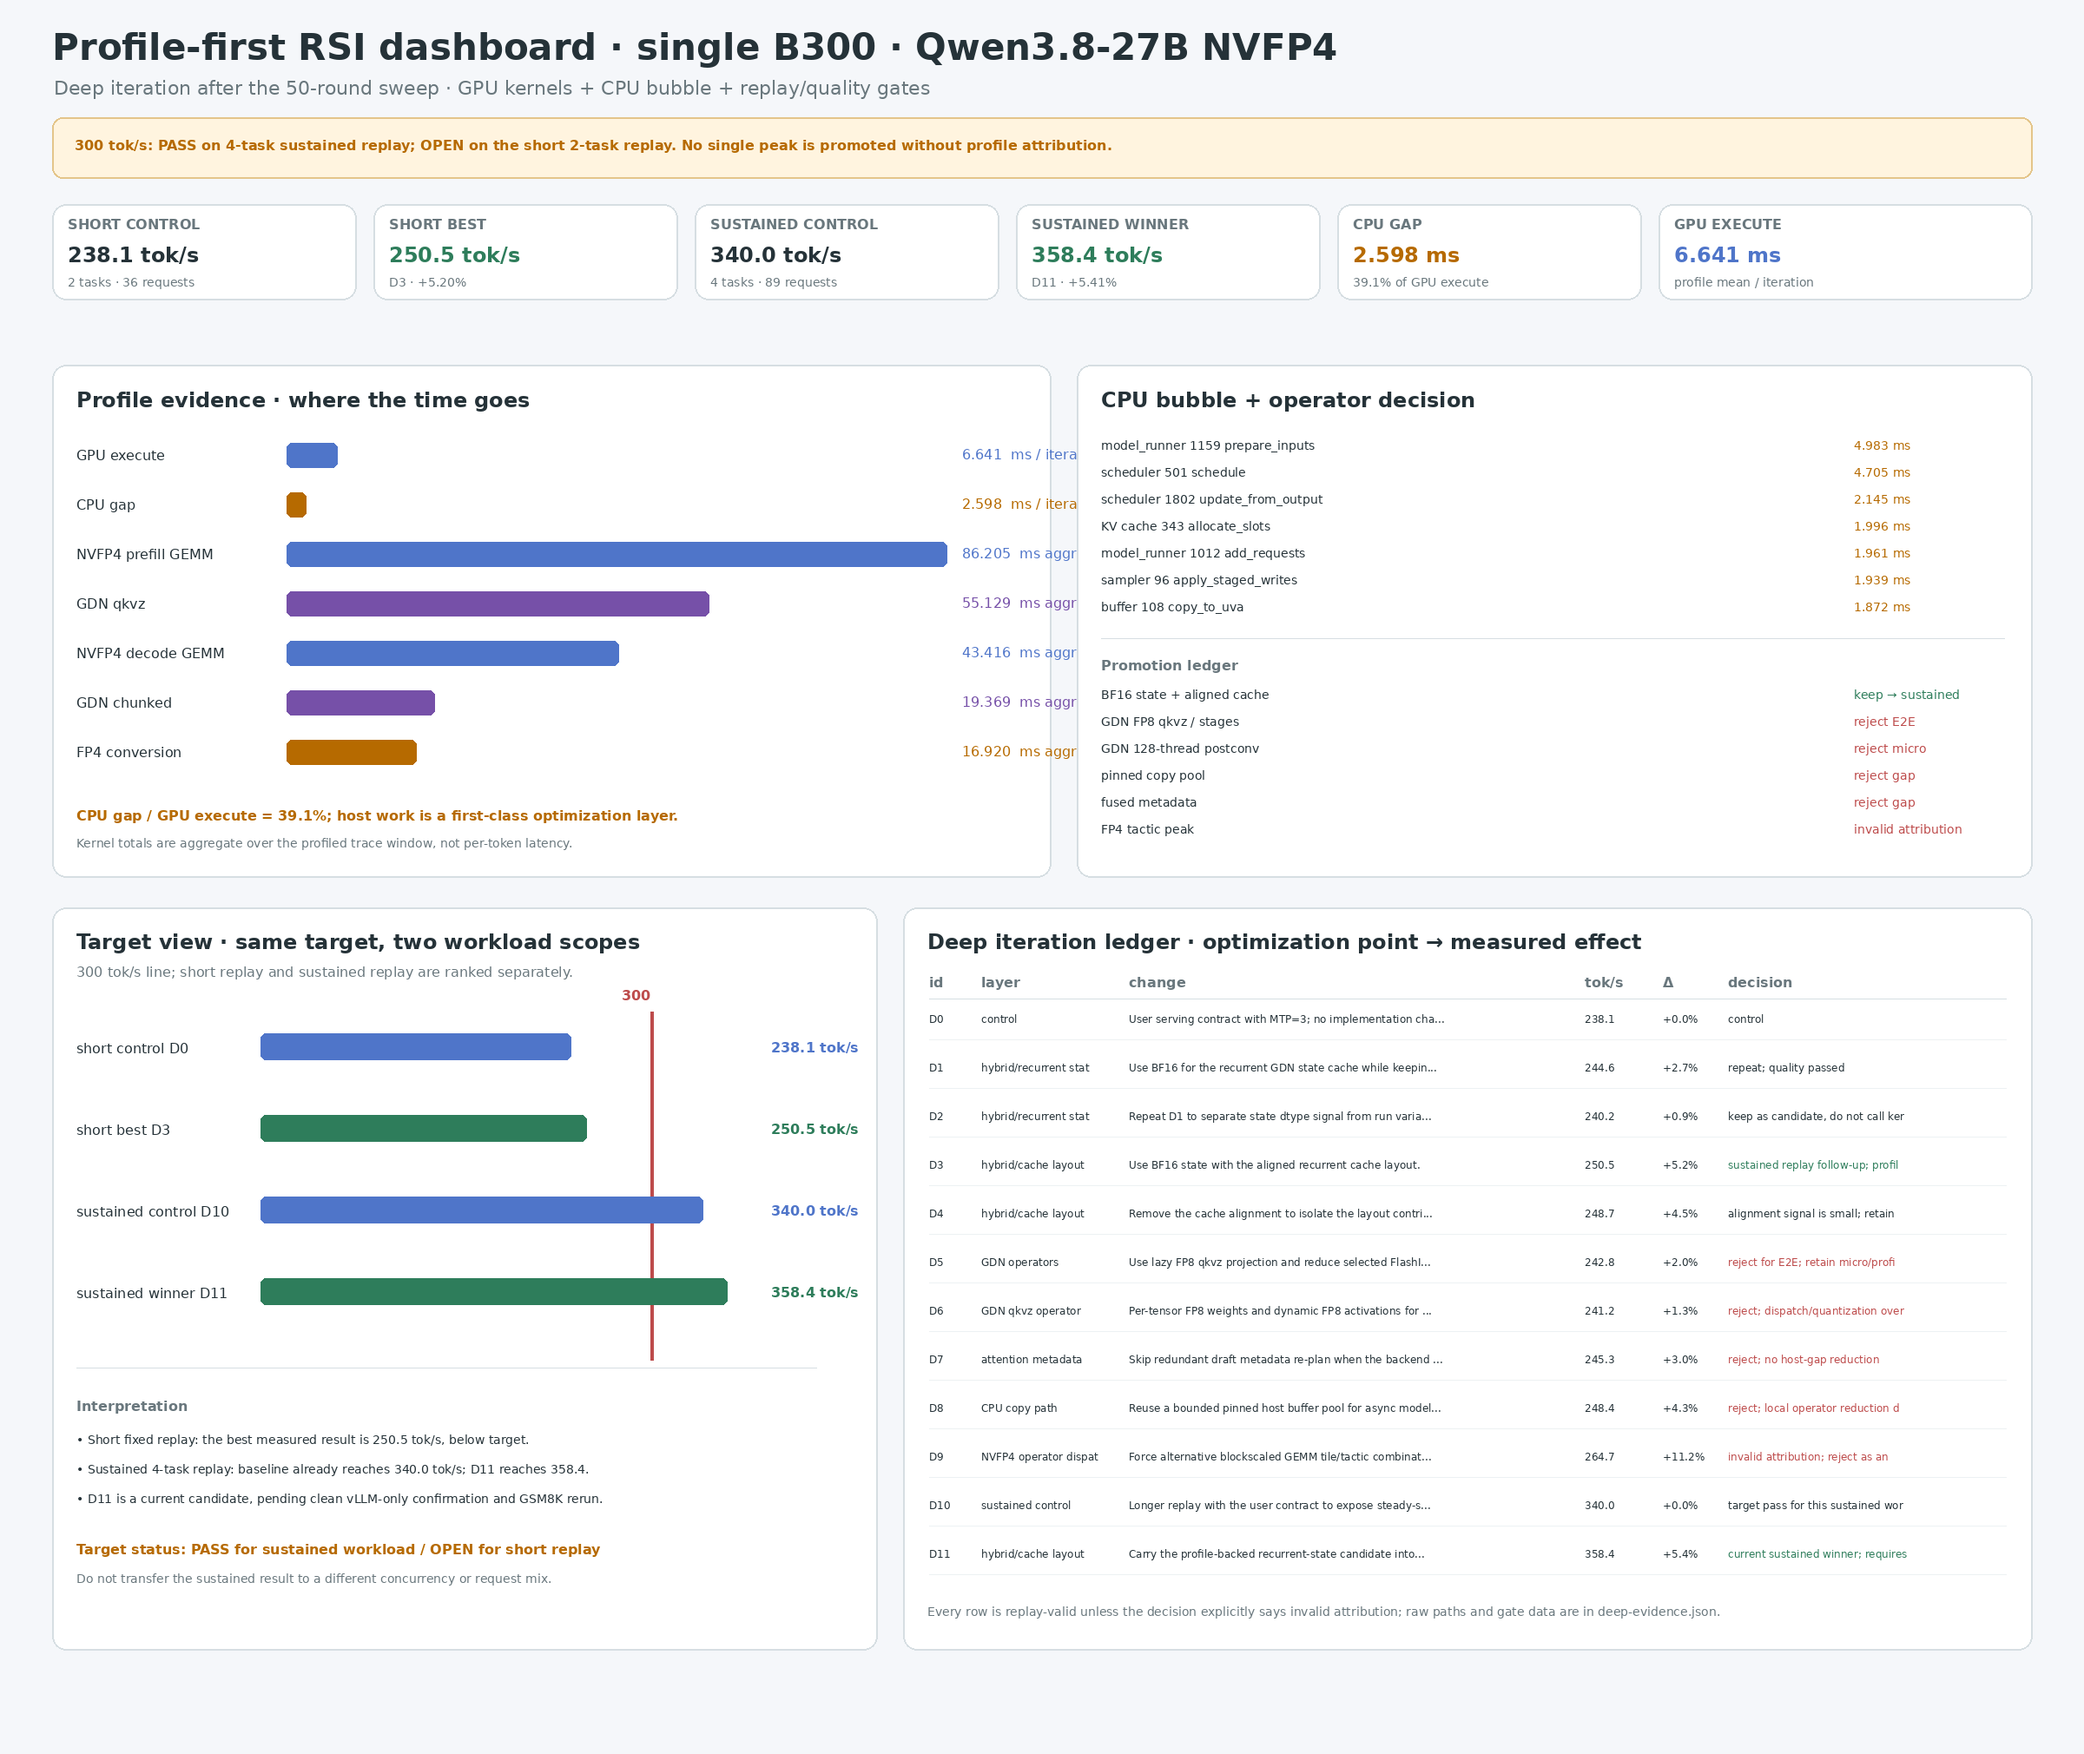
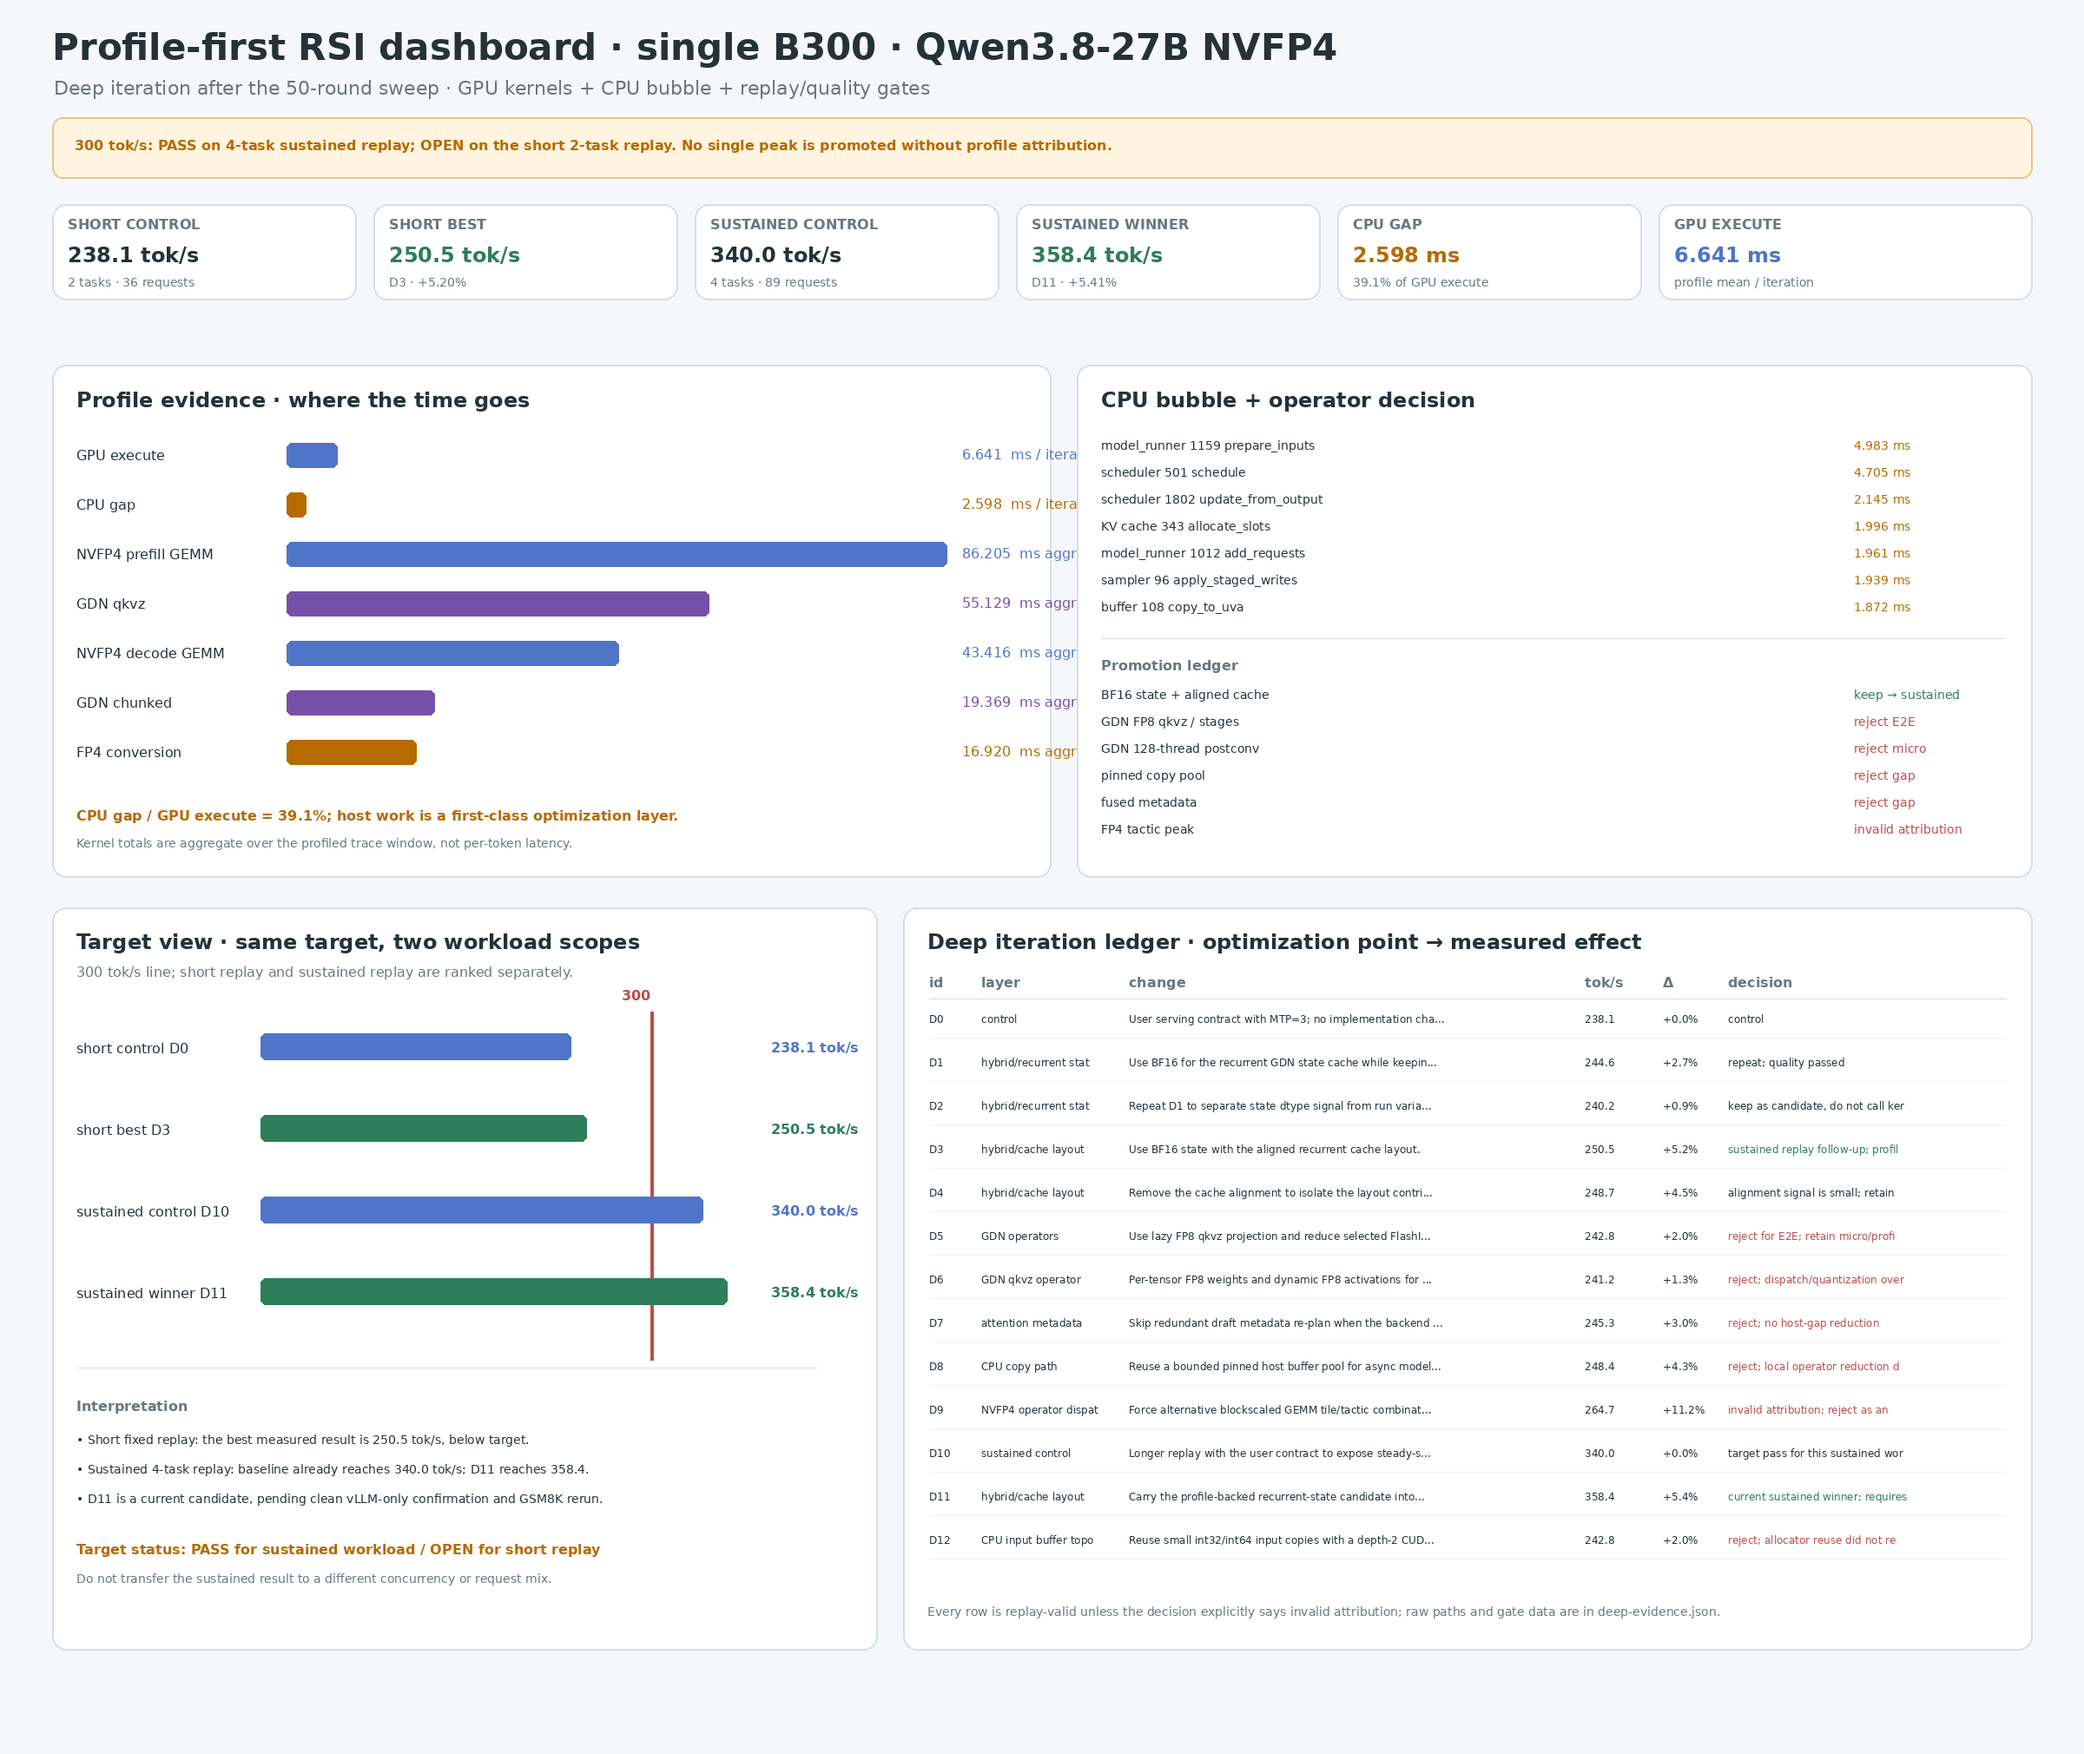
perf(rsi): record input buffer profile rejection

Changed region(s): [[0.4688, 0.5926, 0.6875, 0.9045], [0.8125, 0.5926, 0.9062, 0.9045], [0.4688, 0.8421, 0.5, 0.9045]]

diff --git a/tools/experimental_input_copy_pool_sitecustomize/sitecustomize.py b/tools/experimental_input_copy_pool_sitecustomize/sitecustomize.py
@@ -1,0 +1,122 @@
+#!/usr/bin/env python3
+# SPDX-License-Identifier: Apache-2.0
+# SPDX-FileCopyrightText: Copyright contributors to the AgentInfer project
+
+"""Opt-in ring buffers for small model-runner CPU-to-GPU input copies.
+
+The normal helper allocates a GPU output tensor whenever ``out`` is omitted.
+This probe reuses both the pinned host staging tensor and the GPU destination
+for small one-dimensional index inputs.  A CUDA event guards reuse; if a ring
+slot is still in flight, the original vLLM helper is used for that call.
+"""
+
+from __future__ import annotations
+
+import atexit
+import json
+import os
+import threading
+from collections import defaultdict
+from pathlib import Path
+from typing import Any
+
+import torch
+
+
+_DEPTH = int(os.environ.get("AGENTINFER_INPUT_COPY_POOL", "0"))
+_MAX_ELEMENTS = int(os.environ.get("AGENTINFER_INPUT_COPY_POOL_MAX_ELEMENTS", "4096"))
+_LOG_PATH = os.environ.get("AGENTINFER_INPUT_COPY_POOL_LOG", "")
+_ORIGINAL: Any = None
+_LOCK = threading.Lock()
+_POOLS: dict[tuple[str, tuple[int, ...], torch.dtype], list[dict[str, Any]]] = {}
+_NEXT: defaultdict[tuple[str, tuple[int, ...], torch.dtype], int] = defaultdict(int)
+_STATS = {"calls": 0, "reused": 0, "allocated": 0, "in_flight_fallback": 0, "shape_fallback": 0}
+
+
+def _write_stats() -> None:
+    if not _LOG_PATH:
+        return
+    path = Path(_LOG_PATH)
+    path.parent.mkdir(parents=True, exist_ok=True)
+    with _LOCK:
+        payload = {"pid": os.getpid(), "depth": _DEPTH, "max_elements": _MAX_ELEMENTS, **_STATS}
+    with path.open("a", encoding="utf-8") as stream:
+        stream.write(json.dumps(payload, sort_keys=True) + "\n")
+
+
+def _supported(source: torch.Tensor, device: torch.device | None) -> bool:
+    return (
+        device is not None
+        and device.type == "cuda"
+        and source.device.type == "cpu"
+        and source.ndim == 1
+        and source.numel() <= _MAX_ELEMENTS
+        and source.dtype in (torch.int32, torch.int64)
+    )
+
+
+def _copy_to_gpu(
+    x: torch.Tensor | Any,
+    out: torch.Tensor | None = None,
+    device: torch.device | None = None,
+) -> torch.Tensor:
+    assert _ORIGINAL is not None
+    if _DEPTH <= 0 or out is not None:
+        return _ORIGINAL(x, out=out, device=device)
+    try:
+        source = torch.from_numpy(x) if not isinstance(x, torch.Tensor) else x
+    except (TypeError, ValueError):
+        return _ORIGINAL(x, out=out, device=device)
+    with _LOCK:
+        _STATS["calls"] += 1
+        should_flush = _STATS["calls"] % 64 == 0
+    if should_flush:
+        _write_stats()
+    if not _supported(source, device):
+        with _LOCK:
+            _STATS["shape_fallback"] += 1
+        return _ORIGINAL(x, out=out, device=device)
+
+    key = (str(device), tuple(int(item) for item in source.shape), source.dtype)
+    with _LOCK:
+        pool = _POOLS.get(key)
+        if pool is None:
+            pool = []
+            _POOLS[key] = pool
+        index = _NEXT[key] % _DEPTH
+        _NEXT[key] += 1
+        if len(pool) < _DEPTH:
+            pool.append(
+                {
+                    "host": torch.empty_like(source, pin_memory=True),
+                    "device": torch.empty_like(source, device=device),
+                    "event": torch.cuda.Event(blocking=False),
+                }
+            )
+            _STATS["allocated"] += 1
+        slot = pool[index]
+
+    if slot["event"].query() is False:
+        with _LOCK:
+            _STATS["in_flight_fallback"] += 1
+        return _ORIGINAL(x, out=out, device=device)
+    slot["host"].copy_(source)
+    slot["device"].copy_(slot["host"], non_blocking=True)
+    slot["event"].record()
+    with _LOCK:
+        _STATS["reused"] += 1
+    return slot["device"]
+
+
+if _DEPTH > 0:
+    from vllm.v1.worker.gpu import buffer_utils
+
+    _ORIGINAL = buffer_utils.async_copy_to_gpu
+    buffer_utils.async_copy_to_gpu = _copy_to_gpu
+    try:
+        from vllm.v1.worker.gpu import model_runner
+    except ImportError:
+        model_runner = None
+    if model_runner is not None:
+        model_runner.async_copy_to_gpu = _copy_to_gpu
+    atexit.register(_write_stats)

diff --git a/tools/render_single_nvfp4_deep_dashboard.py b/tools/render_single_nvfp4_deep_dashboard.py
@@ -220,7 +220,7 @@ def _draw_round_table(draw: ImageDraw.ImageDraw, data: dict[str, Any]) -> None:
     rows = data["iterations"]
     base_by_tasks = {2: next(row["output_tok_s"] for row in rows if row["id"] == "D0"), 4: next(row["output_tok_s"] for row in rows if row["id"] == "D10")}
     for index, row in enumerate(rows):
-        y = y0 + 44 + index * 56
+        y = y0 + 44 + index * 50
         base = base_by_tasks[int(row["tasks"])]
         delta = (float(row["output_tok_s"]) / base - 1) * 100
         layer = str(row["layer"]).replace("hybrid model / ", "hybrid/")
@@ -234,7 +234,7 @@ def _draw_round_table(draw: ImageDraw.ImageDraw, data: dict[str, Any]) -> None:
         for value, (_, width) in zip(values, headers, strict=True):
             _text(draw, (x, y), str(value), MICRO, color if value == decision[:34] else INK)
             x += width
-        draw.line((x0, y + 31, 2310, y + 31), fill="#edf1f3", width=1)
+        draw.line((x0, y + 29, 2310, y + 29), fill="#edf1f3", width=1)
     _text(draw, (1068, 1848), "Every row is replay-valid unless the decision explicitly says invalid attribution; raw paths and gate data are in deep-evidence.json.", TINY, MUTED)
 
 

diff --git a/docs/rsi/qwen38-single-nvfp4-deep-results.md b/docs/rsi/qwen38-single-nvfp4-deep-results.md
@@ -13,6 +13,7 @@
 - GDN prefill stage probe：[experimental_gdn_prefill_stages.py](../../tools/experimental_gdn_prefill_stages.py)
 - FP4 shape microbenchmark：[experimental_fp4_runner_probe.py](../../tools/experimental_fp4_runner_probe.py)
 - FlashInfer metadata probe：[experimental_fused_flashinfer.py](../../tools/experimental_fused_flashinfer.py)
+- CPU input-copy ring probe：[experimental_input_copy_pool_sitecustomize/sitecustomize.py](../../tools/experimental_input_copy_pool_sitecustomize/sitecustomize.py)
 
 ## 先给结论
 
@@ -47,6 +48,8 @@ Profile 文件来自 MTP3、client concurrency 8、CUDA graph serving path，并
 
 Pinned buffer pool 的对照实验把 `aten::pin_memory` aggregate 从约 0.641 ms 降到 0.239 ms，但 Python copy path 增加，CPU gap 从约 2.598 ms 变成约 2.605 ms，E2E 没有形成可靠收益。因此下一步应优化 copy 的调用拓扑和 metadata 生命周期，不能只替换 pin allocator。
 
+D12 进一步复用了 GPU output 和 pinned host source：worker 实际命中约 7,936 次 copy、分配 11 个 ring slot，说明实验确实进入了 worker path；但 GPU execute 约 6.609 ms、CPU gap 约 2.602 ms，E2E 两次为 246.863 和 242.827 tok/s。它同时没有缩短 host bubble，也没有改善 replay throughput，因此 reject。
+
 ### Operator hotspots
 
 | Layer / operator group | Profile aggregate | 当前判断 |
@@ -64,7 +67,7 @@ Pinned buffer pool 的对照实验把 `aten::pin_memory` aggregate 从约 0.641 
 
 ## 每轮优化点与效果
 
-以下是这轮深度迭代的完整台账。`short replay` 统一指 2 tasks/36 requests；最后两轮改用 4 tasks/89 requests 来测持续 batching，delta 只和同 workload 的 control 比较。
+以下是这轮深度迭代的完整台账。D0–D9 和 D12 是 2 tasks/36 requests 的 short replay；D10/D11 改用 4 tasks/89 requests 测持续 batching，delta 只和同 workload 的 control 比较。
 
 | Round | Layer | Optimization point | Output tok/s | Acceptance | Effect / decision |
 | --- | --- | --- | ---: | ---: | --- |
@@ -80,6 +83,7 @@ Pinned buffer pool 的对照实验把 `aten::pin_memory` aggregate 从约 0.641 
 | D9 | NVFP4 dispatch | force alternative FP4 tactics | 264.689 | 4.261 | acceptance 和 kernel profile 同时变化，归因无效，reject |
 | D10 | sustained control | MTP3 baseline, 4-task replay | 339.991 | 3.386 | 89/89；sustained target pass |
 | D11 | recurrent/cache | BF16 state + aligned cache, 4-task replay | 358.375 | 3.352 | +5.41%；89/89；当前 sustained winner |
+| D12 | CPU input buffers | depth-2 CUDA-event-guarded GPU+pinned input-copy ring | 242.827 | 3.228 | screen 246.863；worker 7936 calls；gap 2.602 ms；reject |
 
 ## GSM8K 质量
 

diff --git a/docs/rsi/qwen38-single-nvfp4-knowledge-base.md b/docs/rsi/qwen38-single-nvfp4-knowledge-base.md
@@ -26,7 +26,7 @@ profile 的 host gap 主要由 `prepare_inputs`、scheduler `schedule/update_fro
 
 当前 profile 驱动候选是 BF16 recurrent state + aligned cache。它在 2-task/36-request replay 中达到 **250.491 tok/s**，在 4-task/89-request sustained replay 中达到 **358.375 tok/s**；同 workload baseline 是 **339.991 tok/s**。这说明 300 tok/s 已在 sustained workload 上达到，但短 replay 仍为 **250.491 tok/s**，不能把两种 workload 合并成一个结论。D11 还没有在 clean vLLM-only 环境完成复核和独立 GSM8K 重跑，所以它保持 opt-in candidate。
 
-算子和 CPU 实验的结果也写入知识库：固定 128-thread 的 GDN post-conv 通过 correctness 但比生产 256-thread kernel 慢；FP8 qkvz、GDN stage tuning、fused metadata 和 pinned copy pool 都没有同时降低 profile bottleneck 与 E2E；一个 FP4 tactic 峰值受 acceptance 变化干扰，归因无效。失败实验不会删除，它们是下一轮避免重复试错的约束。
+算子和 CPU 实验的结果也写入知识库：固定 128-thread 的 GDN post-conv 通过 correctness 但比生产 256-thread kernel 慢；FP8 qkvz、GDN stage tuning、fused metadata、pinned copy pool 和带 CUDA event 的 GPU/pinned input ring 都没有同时降低 profile bottleneck 与 E2E；一个 FP4 tactic 峰值受 acceptance 变化干扰，归因无效。失败实验不会删除，它们是下一轮避免重复试错的约束。
 
 ## 当前结论
 
